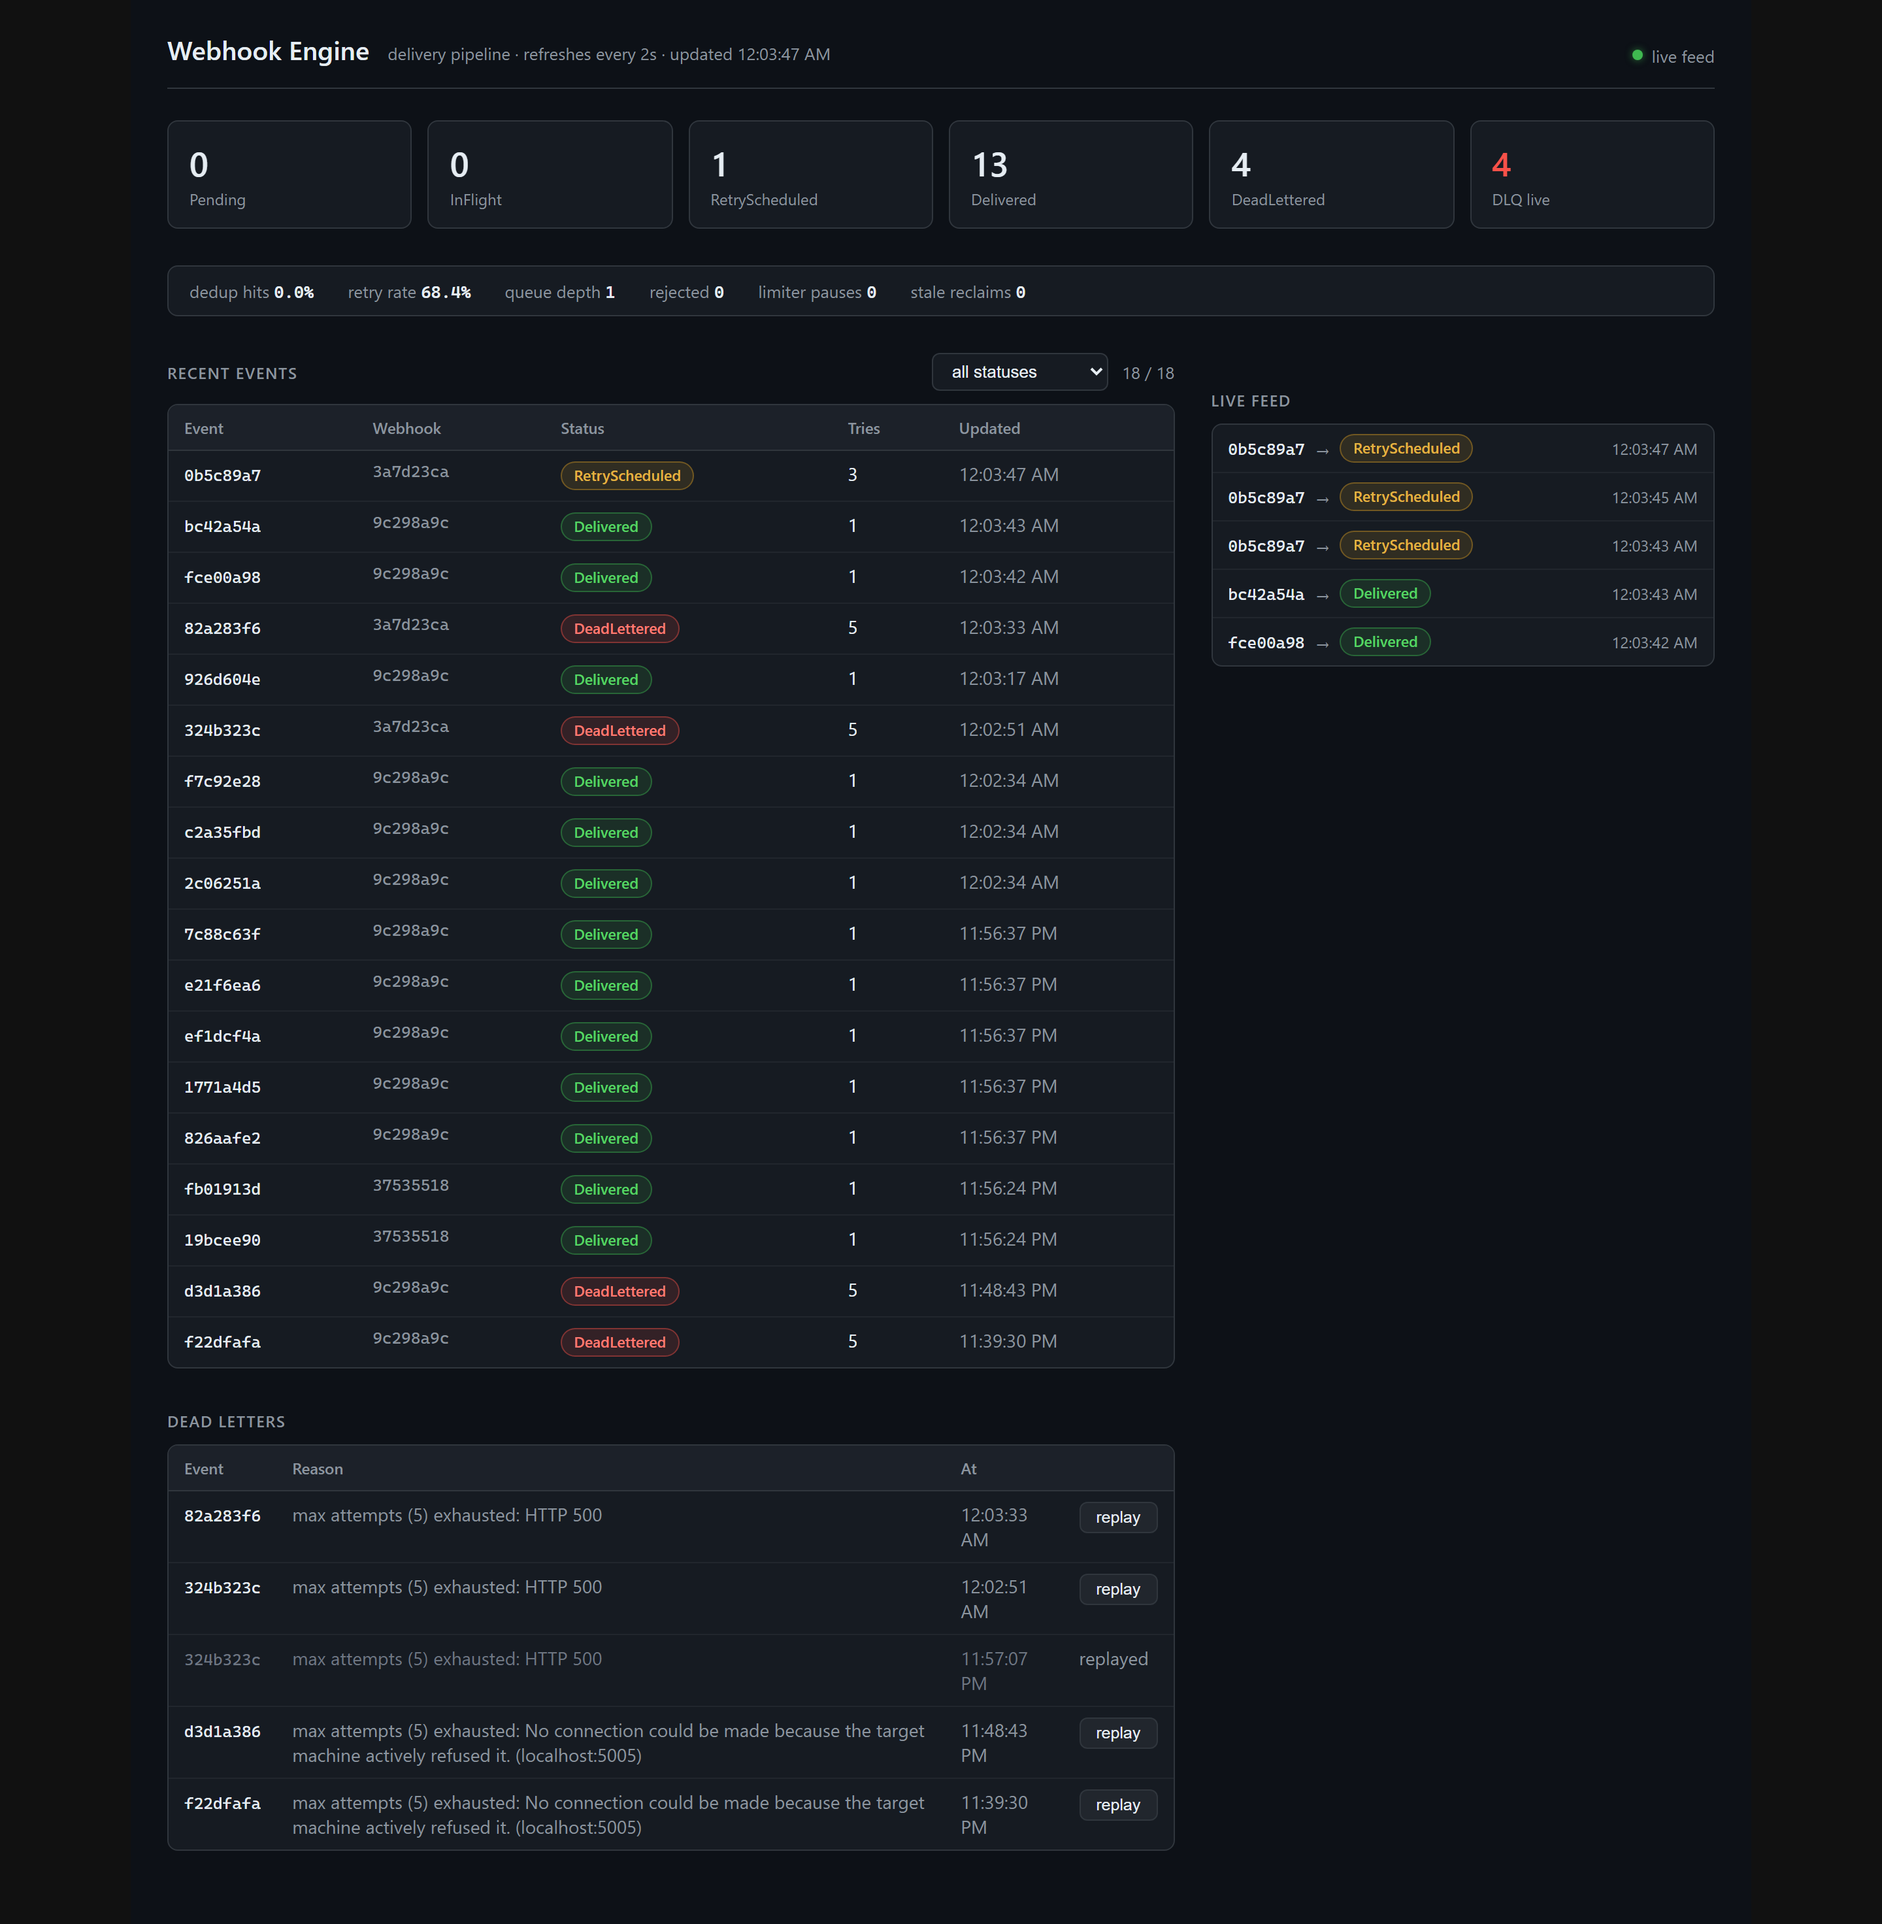
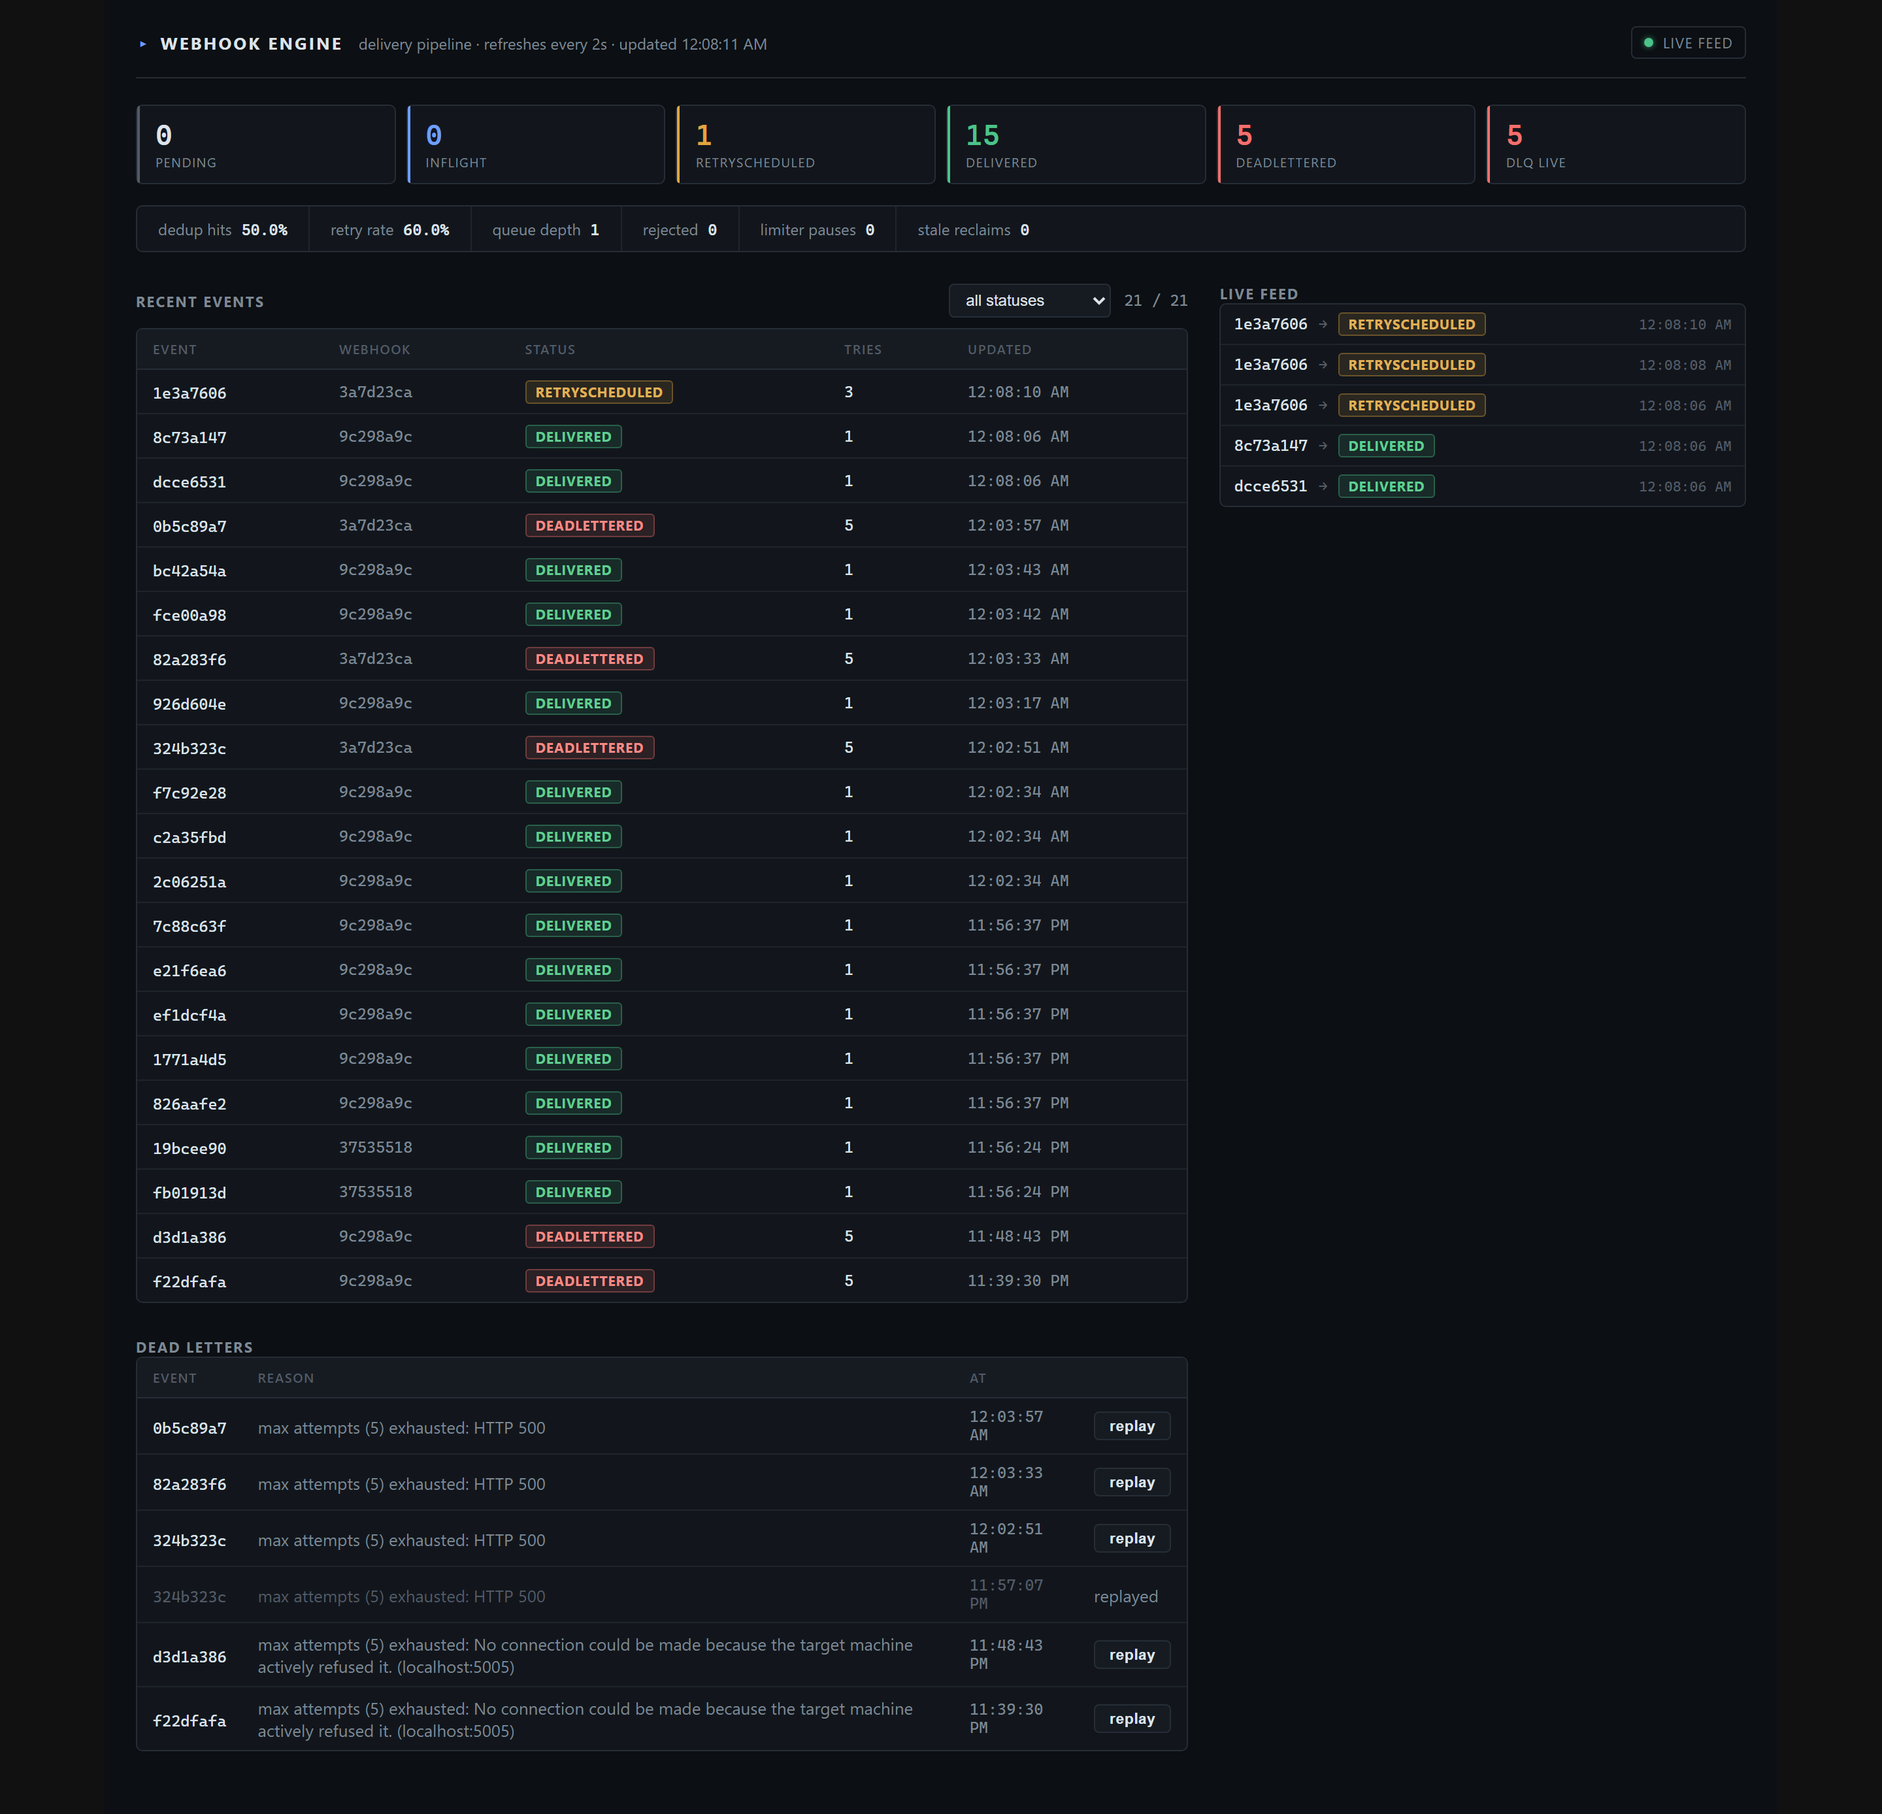
Dashboard strict-console restyle: semantic accent bars, colored numerals, divided metrics strip, tighter dense layout

diff --git a/dashboard/src/App.css b/dashboard/src/App.css
@@ -1,23 +1,28 @@
 :root {
-  --bg: #0d1117;
-  --panel: #161b22;
-  --panel-2: #1c2129;
-  --border: #30363d;
-  --text: #e6edf3;
-  --muted: #8b949e;
-  --accent: #58a6ff;
-  --green: #3fb950;
-  --red: #f85149;
-  --amber: #d29922;
-  --blue: #58a6ff;
+  --bg: #0c0f13;
+  --panel: #12161c;
+  --panel-2: #161b22;
+  --border: #262d36;
+  --border-soft: #1f242c;
+  --text: #dde3ea;
+  --muted: #7d8894;
+  --faint: #525b66;
+  --accent: #6e9ef8;
+  --green: #4cc38a;
+  --red: #f2706d;
+  --amber: #e0a63e;
+  --blue: #6e9ef8;
+  --mono: ui-monospace, "Cascadia Mono", Consolas, monospace;
 }
 
+* { box-sizing: border-box; }
+
 .page {
-  max-width: 1240px;
+  max-width: 1280px;
   margin: 0 auto;
-  padding: 24px 28px 56px;
+  padding: 20px 24px 48px;
   font-family: -apple-system, "Segoe UI", Roboto, "Helvetica Neue", sans-serif;
-  font-size: 14px;
+  font-size: 13px;
   color: var(--text);
   background: var(--bg);
   min-height: 100vh;
@@ -27,112 +32,156 @@
 
 header {
   display: flex;
-  align-items: baseline;
-  gap: 14px;
-  padding-bottom: 16px;
-  margin-bottom: 24px;
+  align-items: center;
+  gap: 12px;
+  padding-bottom: 14px;
+  margin-bottom: 20px;
   border-bottom: 1px solid var(--border);
 }
-header h1 { font-size: 20px; font-weight: 600; margin: 0; }
-header .sub { color: var(--muted); font-size: 13px; }
+header h1 {
+  font-size: 13px; font-weight: 700; margin: 0;
+  text-transform: uppercase; letter-spacing: .12em;
+}
+header h1::before { content: "▸ "; color: var(--accent); }
+header .sub { color: var(--muted); font-size: 12px; }
 header .spacer { flex: 1; }
-.conn { display: flex; align-items: center; gap: 7px; color: var(--muted); font-size: 13px; }
-.dot { width: 8px; height: 8px; border-radius: 50%; background: var(--muted); }
-.dot.on { background: var(--green); box-shadow: 0 0 6px rgba(63,185,80,.6); }
+.conn { display: flex; align-items: center; gap: 7px;
+        color: var(--muted); font-size: 11px; text-transform: uppercase; letter-spacing: .06em;
+        border: 1px solid var(--border); border-radius: 4px; padding: 4px 9px; }
+.dot { width: 7px; height: 7px; border-radius: 50%; }
+.dot.on { background: var(--green); box-shadow: 0 0 5px rgba(76,195,138,.7); }
 .dot.off { background: var(--red); }
 
 /* ---------- status cards ---------- */
 
-.cards { display: grid; grid-template-columns: repeat(6, 1fr); gap: 12px; margin-bottom: 20px; }
-.card { background: var(--panel); border: 1px solid var(--border); border-radius: 8px; padding: 14px 16px; }
-.card-num { font-size: 26px; font-weight: 600; font-variant-numeric: tabular-nums; }
-.card-label { font-size: 12px; color: var(--muted); margin-top: 2px; }
-.card.alert .card-num { color: var(--red); }
+.cards { display: grid; grid-template-columns: repeat(6, 1fr); gap: 8px; margin-bottom: 16px; }
+.card {
+  background: var(--panel); border: 1px solid var(--border); border-radius: 5px;
+  padding: 10px 14px 9px; position: relative;
+}
+.card::before {
+  content: ""; position: absolute; left: 0; top: 0; bottom: 0;
+  width: 2px; background: var(--border); border-radius: 2px 0 0 2px;
+}
+.card.c0::before { background: var(--faint); }
+.card.c1::before { background: var(--blue); }
+.card.c2::before { background: var(--amber); }
+.card.c3::before { background: var(--green); }
+.card.c4::before { background: var(--red); }
+.card.c5::before { background: var(--red); }
+.card-num { font-family: var(--mono); font-size: 22px; font-weight: 600; font-variant-numeric: tabular-nums; }
+.card.c1 .card-num { color: var(--blue); }
+.card.c2 .card-num { color: var(--amber); }
+.card.c3 .card-num { color: var(--green); }
+.card.c4 .card-num, .card.c5 .card-num { color: var(--red); }
+.card-label {
+  font-size: 10px; color: var(--muted); margin-top: 1px;
+  text-transform: uppercase; letter-spacing: .07em;
+}
 
 /* ---------- metrics strip ---------- */
 
 .metrics {
-  display: flex; flex-wrap: wrap; gap: 8px 26px;
-  background: var(--panel); border: 1px solid var(--border); border-radius: 8px;
-  padding: 10px 16px; margin-bottom: 28px;
-  font-size: 13px; color: var(--muted);
+  display: flex; flex-wrap: wrap;
+  background: var(--panel); border: 1px solid var(--border); border-radius: 5px;
+  margin-bottom: 24px; overflow: hidden;
 }
-.metrics b { color: var(--text); font-family: ui-monospace, "Cascadia Mono", Consolas, monospace; font-weight: 600; }
+.metrics > span {
+  padding: 9px 16px; font-size: 12px; color: var(--muted);
+  border-right: 1px solid var(--border-soft);
+}
+.metrics > span:last-child { border-right: none; }
+.metrics b { color: var(--text); font-family: var(--mono); font-weight: 600; margin-left: 4px; }
 
 /* ---------- columns / sections ---------- */
 
-.cols { display: grid; grid-template-columns: 2fr 1fr; gap: 28px; align-items: start; }
+.cols { display: grid; grid-template-columns: 2fr 1fr; gap: 24px; align-items: start; }
 
 h2 {
-  font-size: 12px; font-weight: 600; text-transform: uppercase;
-  letter-spacing: .07em; color: var(--muted); margin: 0 0 10px;
+  font-size: 11px; font-weight: 700; text-transform: uppercase;
+  letter-spacing: .1em; color: var(--muted); margin: 0;
 }
-section + section, h2 { margin-top: 28px; }
-.cols section h2 { margin-top: 0; }
+section h2 { margin-bottom: 8px; }
+.cols > section > h2, .toolbar h2 { margin-bottom: 0; }
+.section-title { margin: 26px 0 8px; }
+
+/* ---------- toolbar ---------- */
+
+.toolbar { display: flex; align-items: center; gap: 10px; margin-bottom: 8px; }
+.toolbar .spacer { flex: 1; }
+.toolbar select {
+  background: var(--panel-2); color: var(--text); border: 1px solid var(--border);
+  border-radius: 4px; padding: 4px 8px; font-size: 12px; outline: none;
+}
+.toolbar select:focus { border-color: var(--accent); }
+.toolbar .count { color: var(--muted); font-size: 12px; font-family: var(--mono); }
 
 /* ---------- tables ---------- */
 
-.table-wrap { border: 1px solid var(--border); border-radius: 8px; overflow: hidden; background: var(--panel); }
+.table-wrap {
+  border: 1px solid var(--border); border-radius: 5px;
+  overflow: hidden; background: var(--panel);
+}
 table { width: 100%; border-collapse: collapse; }
 th {
-  text-align: left; color: var(--muted); font-size: 12px; font-weight: 500;
-  padding: 9px 12px; background: var(--panel-2);
+  text-align: left; color: var(--faint); font-size: 10px; font-weight: 600;
+  text-transform: uppercase; letter-spacing: .08em;
+  padding: 8px 12px; background: var(--panel-2);
   border-bottom: 1px solid var(--border);
 }
-td { padding: 8px 12px; border-bottom: 1px solid #21262d; vertical-align: top; }
+td { padding: 7px 12px; border-bottom: 1px solid var(--border-soft); vertical-align: middle; }
 tr:last-child td { border-bottom: none; }
+tbody tr { transition: background .08s; }
 tr.clickable { cursor: pointer; }
-tr.clickable:hover td { background: #1b2430; }
-tr.replayed td { color: #6e7681; }
+tr.clickable:hover td { background: #1a212b; }
+tr.replayed td { color: var(--faint); }
+tr.replayed .id { color: var(--faint); }
 
-.mono { font-family: ui-monospace, "Cascadia Mono", Consolas, monospace; font-size: 12.5px; }
-.num { font-variant-numeric: tabular-nums; }
+.mono { font-family: var(--mono); font-size: 12px; }
+.num { font-variant-numeric: tabular-nums; font-family: var(--mono); font-size: 12px; }
 .muted { color: var(--muted); }
-.empty { color: #6e7681; text-align: center; padding: 18px 0; }
+.empty { color: var(--faint); text-align: center; padding: 20px 0; font-size: 12px; }
 
 /* ---------- badges ---------- */
 
 .badge {
-  display: inline-block; padding: 1px 9px; border-radius: 11px;
-  font-size: 11.5px; font-weight: 600; line-height: 18px; white-space: nowrap;
+  display: inline-block; padding: 2px 8px; border-radius: 3px;
+  font-size: 10.5px; font-weight: 700; letter-spacing: .04em;
+  text-transform: uppercase; white-space: nowrap;
 }
-.badge.s0 { color: #9da7b3; background: rgba(139,148,158,.14); border: 1px solid rgba(139,148,158,.35); }
-.badge.s1 { color: #79c0ff; background: rgba(88,166,255,.13);  border: 1px solid rgba(88,166,255,.4); }
-.badge.s2 { color: #e3b341; background: rgba(210,153,34,.14);  border: 1px solid rgba(210,153,34,.4); }
-.badge.s3 { color: #56d364; background: rgba(63,185,80,.13);   border: 1px solid rgba(63,185,80,.4); }
-.badge.s4 { color: #ff7b72; background: rgba(248,81,73,.13);   border: 1px solid rgba(248,81,73,.4); }
+.badge.s0 { color: #9aa5b1; background: rgba(125,136,148,.12); box-shadow: inset 0 0 0 1px rgba(125,136,148,.3); }
+.badge.s1 { color: #8fb8fa; background: rgba(110,158,248,.12);  box-shadow: inset 0 0 0 1px rgba(110,158,248,.35); }
+.badge.s2 { color: #e0b156; background: rgba(224,166,62,.12);  box-shadow: inset 0 0 0 1px rgba(224,166,62,.35); }
+.badge.s3 { color: #5fce92; background: rgba(76,195,138,.12);  box-shadow: inset 0 0 0 1px rgba(76,195,138,.35); }
+.badge.s4 { color: #f58a85; background: rgba(242,112,109,.12); box-shadow: inset 0 0 0 1px rgba(242,112,109,.35); }
 
 /* ---------- attempts http code ---------- */
 
-.code-ok  { color: var(--green); font-weight: 600; }
-.code-bad { color: var(--red); font-weight: 600; }
-.code-none { color: var(--muted); }
-
-/* ---------- filter row ---------- */
-
-.toolbar { display: flex; align-items: center; gap: 10px; margin-bottom: 10px; }
-.toolbar select {
-  background: var(--panel); color: var(--text); border: 1px solid var(--border);
-  border-radius: 6px; padding: 5px 10px; font-size: 13px;
-}
-.toolbar .count { color: var(--muted); font-size: 13px; }
+.code-ok  { color: var(--green); font-family: var(--mono); font-size: 12px; font-weight: 600; }
+.code-bad { color: var(--red); font-family: var(--mono); font-size: 12px; font-weight: 600; }
+.code-none { color: var(--faint); }
 
 /* ---------- buttons ---------- */
 
 button {
-  background: #21262d; color: var(--text); border: 1px solid #30363d;
-  border-radius: 6px; padding: 4px 12px; font-size: 12.5px; cursor: pointer;
+  background: var(--panel-2); color: var(--text); border: 1px solid var(--border);
+  border-radius: 4px; padding: 4px 11px; font-size: 11.5px; font-weight: 600;
+  cursor: pointer; letter-spacing: .02em;
 }
 button:hover { border-color: var(--accent); color: var(--accent); }
 
 /* ---------- live feed ---------- */
 
-.feed { list-style: none; padding: 0; margin: 0; max-height: 560px; overflow-y: auto;
-        border: 1px solid var(--border); border-radius: 8px; background: var(--panel); }
-.feed li { display: flex; align-items: center; gap: 8px; padding: 7px 12px; border-bottom: 1px solid #21262d; font-size: 13px; }
+.feed {
+  list-style: none; padding: 0; margin: 0; max-height: 640px; overflow-y: auto;
+  border: 1px solid var(--border); border-radius: 5px; background: var(--panel);
+  font-size: 12px;
+}
+.feed li { display: flex; align-items: center; gap: 8px; padding: 6px 10px; border-bottom: 1px solid var(--border-soft); }
 .feed li:last-child { border-bottom: none; }
-.feed .t { margin-left: auto; color: var(--muted); font-size: 12px; font-variant-numeric: tabular-nums; }
-.feed .empty { padding: 18px 0; }
+.feed .arrow { color: var(--faint); font-family: var(--mono); }
+.feed .t { margin-left: auto; color: var(--faint); font-size: 11px; font-family: var(--mono); font-variant-numeric: tabular-nums; }
+.feed .empty { padding: 20px 0; }
 
 /* ---------- copyable id ---------- */
 
@@ -141,6 +190,10 @@ button:hover { border-color: var(--accent); color: var(--accent); }
 
 /* ---------- attempts panel ---------- */
 
-.attempts { margin-top: 20px; }
-.attempts .panel-head { display: flex; align-items: center; gap: 12px; margin-bottom: 10px; }
-.attempts .panel-head h2 { margin: 0; }
+.attempts { margin-top: 22px; }
+.attempts .panel-head { display: flex; align-items: center; gap: 12px; margin-bottom: 8px; }
+
+/* ---------- scrollbars ---------- */
+
+.feed::-webkit-scrollbar { width: 8px; }
+.feed::-webkit-scrollbar-thumb { background: var(--border); border-radius: 4px; }

diff --git a/dashboard/src/App.tsx b/dashboard/src/App.tsx
@@ -100,13 +100,13 @@ export default function App() {
       </header>
 
       <section className="cards">
-        {STATUS_NAMES.map(s => (
-          <div className="card" key={s}>
+        {STATUS_NAMES.map((s, i) => (
+          <div className={`card c${i}`} key={s}>
             <div className="card-num">{stats?.byStatus[s] ?? 0}</div>
             <div className="card-label">{s}</div>
           </div>
         ))}
-        <div className="card alert">
+        <div className="card c5">
           <div className="card-num">{stats?.liveDeadLetters ?? 0}</div>
           <div className="card-label">DLQ live</div>
         </div>
@@ -183,7 +183,7 @@ export default function App() {
             </section>
           )}
 
-          <h2 style={{ marginTop: 32 }}>Dead letters</h2>
+          <h2 className="section-title">Dead letters</h2>
           <div className="table-wrap">
             <table>
               <thead>
@@ -214,7 +214,7 @@ export default function App() {
             {feed.map((f, i) => (
               <li key={i}>
                 <CopyableId id={f.eventId} />
-                <span className="muted">→</span>
+                <span className="arrow">→</span>
                 <StatusBadge s={f.status} />
                 <span className="t">{f.at.toLocaleTimeString()}</span>
               </li>
